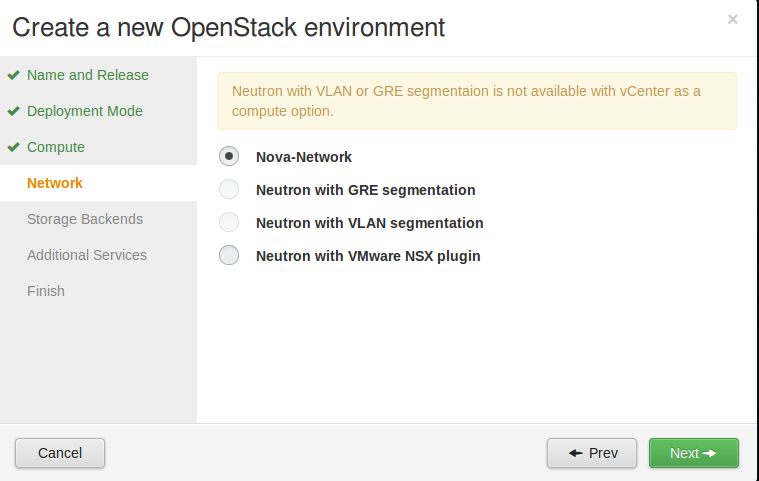
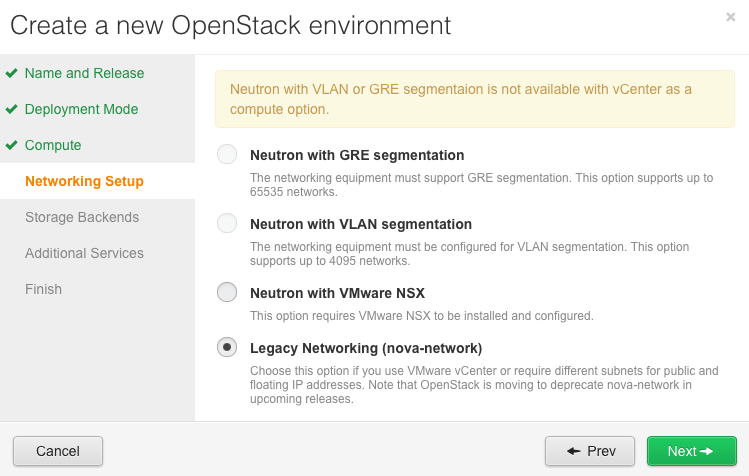
Replace screenshot for nova-network
Since UI message is changed, let's update the screenshot.
There is also one minor change for the text.

diff --git a/pages/user-guide/7300-vcenter.rst b/pages/user-guide/7300-vcenter.rst
@@ -57,9 +57,12 @@ create the environment.
 Select Network Service for vCenter
 ++++++++++++++++++++++++++++++++++
 
-Choose either the Nova-network FlatDHCP or the VLAN manager.
-The VLAN manager provides better security and scalability than the
-FlatDHCP manager.
+Choose either Nova-Network or Neutron with VMware NSX plugin.
+
+.. note:: Neutron is available only when Experimental features are enabled.
+          For more information, see :ref:`experimental-features-op`.
+
+For instructions on NSX, see :ref:`nsx-plan` and :ref:`nsx-deploy`.
 
 .. image:: /_images/user_screen_shots/vcenter-networking.png
    :width: 50%
